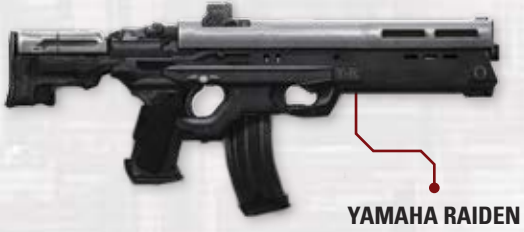
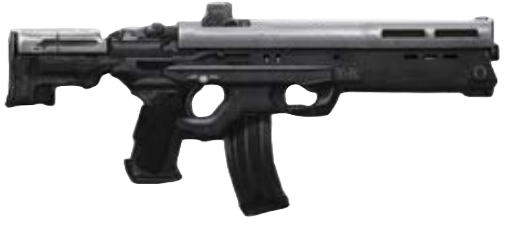
transparent weapon images

diff --git a/lib/sfxData.js b/lib/sfxData.js
@@ -340,6 +340,16 @@ export const sfxData = {
         "reloadSFX": "modules/vjpmacros/assets/sfx/weapons_general/m203_reld.wav",
         "fireRateDelay": 100 // in milliseconds
     },
+    "ultamax hmg-2": {
+        "fireSFX": ["modules/vjpmacros/assets/sfx/weapons/firearm/dshka_fire_01.wav",
+            "modules/vjpmacros/assets/sfx/weapons/firearm/dshka_fire_02.wav",
+            "modules/vjpmacros/assets/sfx/weapons/firearm/dshka_fire_02.wav"],
+        "silencedFireSFX": "modules/vjpmacros/assets/sfx/weapons/firearm/dshka_fire_01.wav",
+        "emptySFX": "modules/vjpmacros/assets/sfx/weapons_general/gen_empty_02.wav",
+        "reloadSFX": "modules/vjpmacros/assets/sfx/weapons_general/rifle_reldempt.wav",
+        "casingDropSFX": "modules/vjpmacros/assets/sfx/weapons_general/rifle_shell_drop_01.wav",
+        "fireRateDelay": 90 // in milliseconds
+    },
     "winchester model 2066": {
         "fireSFX": ["modules/vjpmacros/assets/sfx/weapons/firearm/shotgun_fire_01.wav",
             "modules/vjpmacros/assets/sfx/weapons/firearm/shotgun_fire_02.wav",
